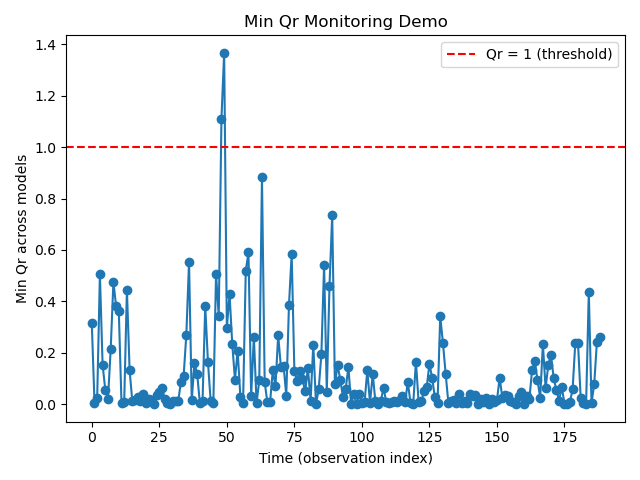
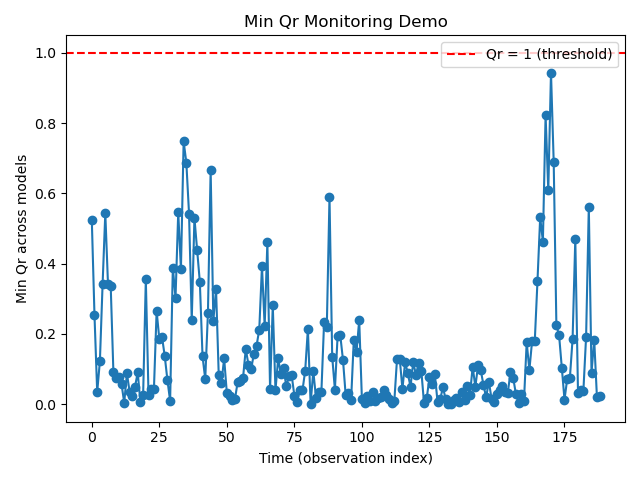
test MST path planning algorithm

diff --git a/run_demo.py b/run_demo.py
@@ -12,7 +12,7 @@ import numpy as np
 import pandas as pd
 from src.preprocessing import load_data
 from src.pca_modeling import PCA
-from src.clustering import perform_kmeans, build_cluster_path, build_cluster_index_map, get_cluster_path_from_user
+from src.clustering import perform_kmeans, build_cluster_path, build_cluster_index_map, get_cluster_path_from_user, build_cluster_path_mst
 from src.mspc_local import build_local_models
 from src.monitoring import monitor_new_point
 from src.diagnostics import get_contribution_vector
@@ -21,7 +21,7 @@ from src.visualization import plot_pca_2d, plot_pca_3d
 
 
 
-def run_whole_process(X_augmented, new_batch, n_components=2, G=10, ALPHA=0.95, Use_Last_NOC_Model=False, Mannual_Path=True):
+def run_whole_process(X_augmented, new_batch, n_components=2, G=10, ALPHA=0.95, Use_Last_NOC_Model=False, Mannual_Path=True, MST_Path=True):
     """
     运行全流程
     包括：
@@ -70,7 +70,11 @@ def run_whole_process(X_augmented, new_batch, n_components=2, G=10, ALPHA=0.95, 
     if Mannual_Path:
         cluster_path = get_cluster_path_from_user(G)
     else:
-        cluster_path = build_cluster_path(centers)
+        if MST_Path:
+            cluster_path = build_cluster_path_mst(centers)
+        else:
+            cluster_path = build_cluster_path(centers)
+
         print("cluster_path:", cluster_path)
 
     cluster_index_map = build_cluster_index_map(labels)

diff --git a/test3.py b/test3.py
@@ -9,7 +9,7 @@ def main():
     new_batch_filepath = "data/example_newbatch_B41_NOC.csv"
     new_batch = load_data(new_batch_filepath).iloc[:,1:]
 
-    run_whole_process(X_augmented, new_batch, n_components=3,  Mannual_Path=True)
+    run_whole_process(X_augmented, new_batch, n_components=3,  Mannual_Path=False)
 
 
 
